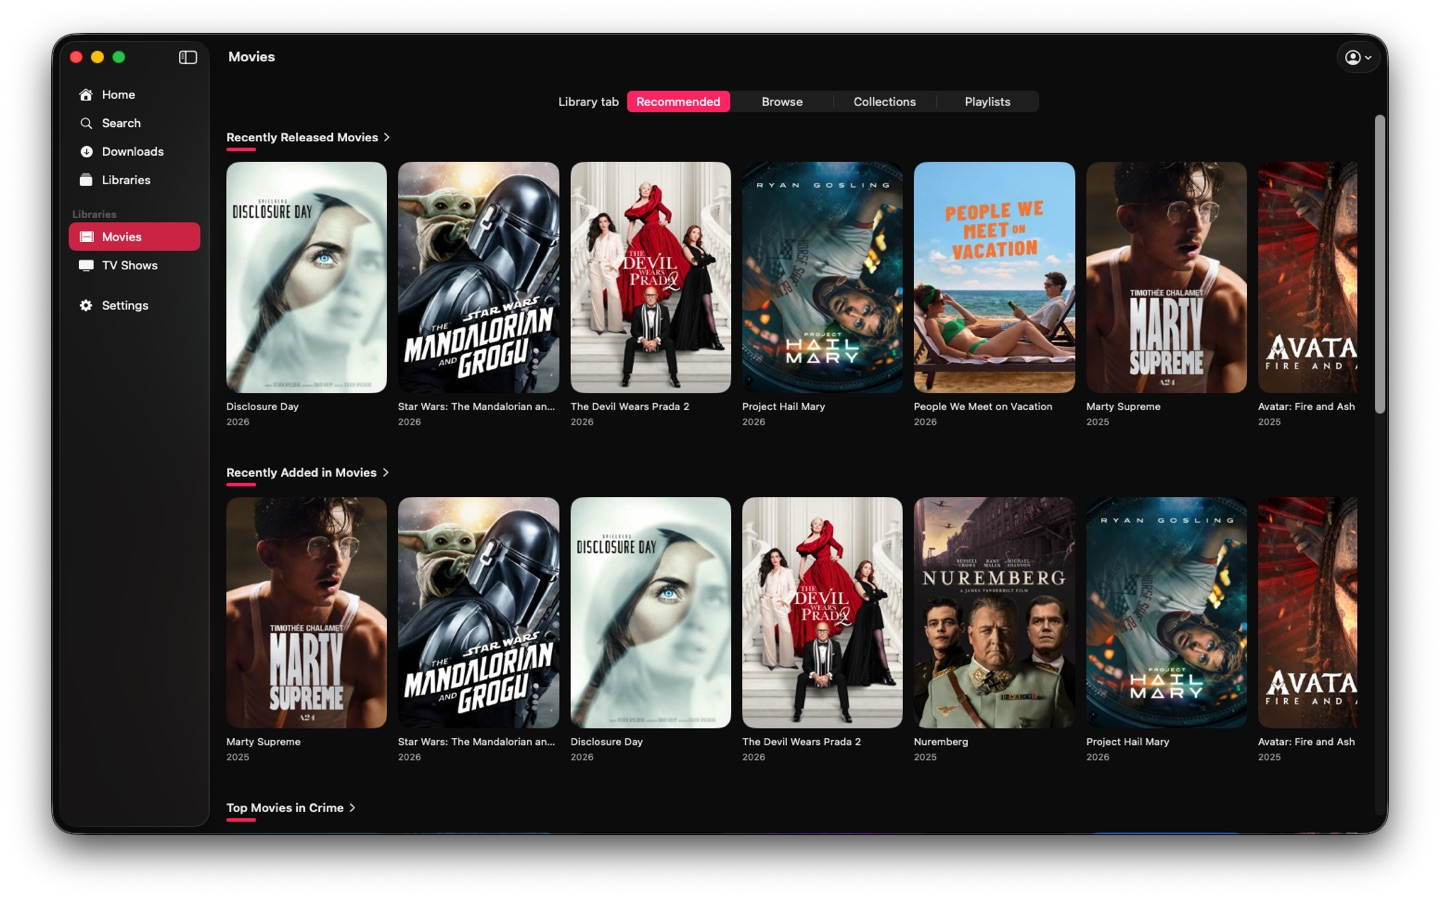
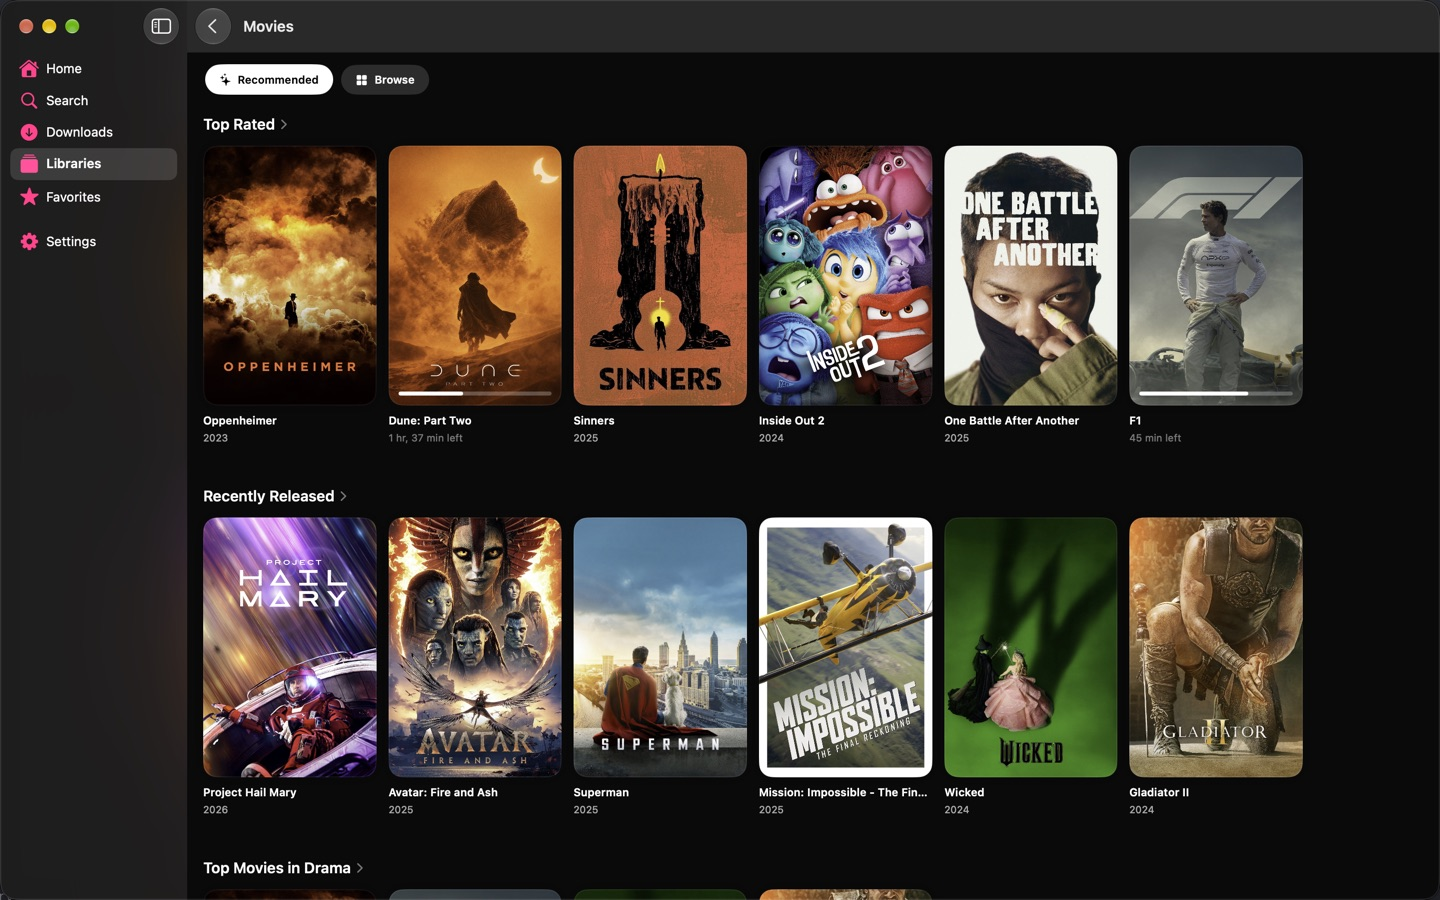
docs: refresh macOS README screenshots

diff --git a/README.md b/README.md
@@ -114,10 +114,8 @@ Beta versions are available through [TestFlight](https://testflight.apple.com/jo
   <summary>macOS</summary>
   <p>
     <img src="Screenshots/macos/macos_home.jpg" alt="macOS Home" width="360" />
-    <img src="Screenshots/macos/macos_library_explore.jpg" alt="macOS Library Explore" width="360" />
     <img src="Screenshots/macos/macos_library_recommended.jpg" alt="macOS Library Recommended" width="360" />
     <img src="Screenshots/macos/macos_details.jpg" alt="macOS Details" width="360" />
     <img src="Screenshots/macos/macos_player.jpg" alt="macOS Player" width="360" />
-    <img src="Screenshots/macos/macos_search.jpg" alt="macOS Search" width="360" />
   </p>
 </details>
